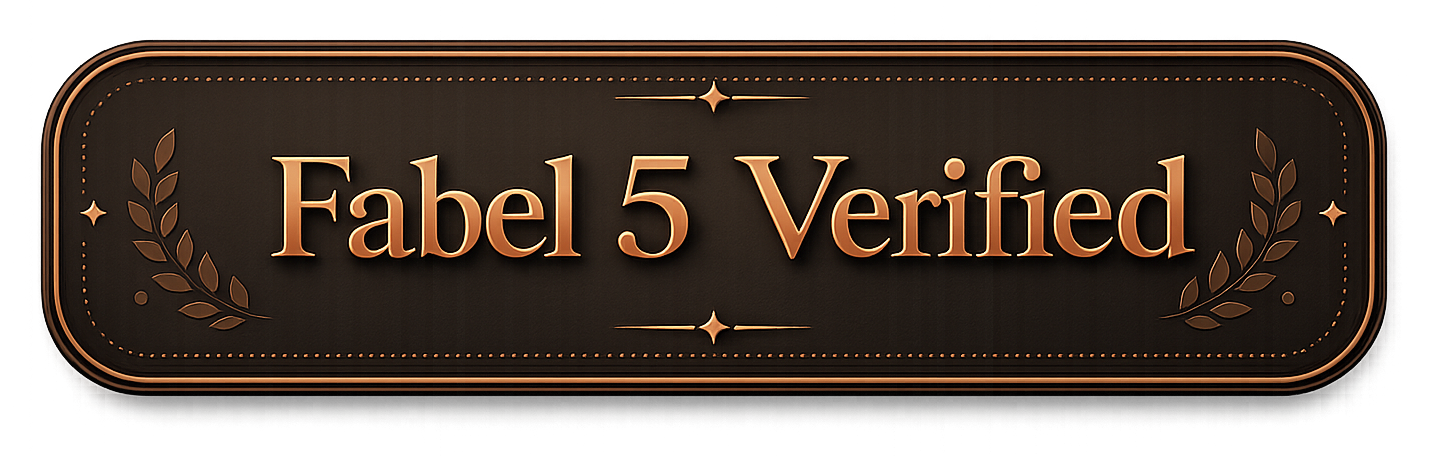
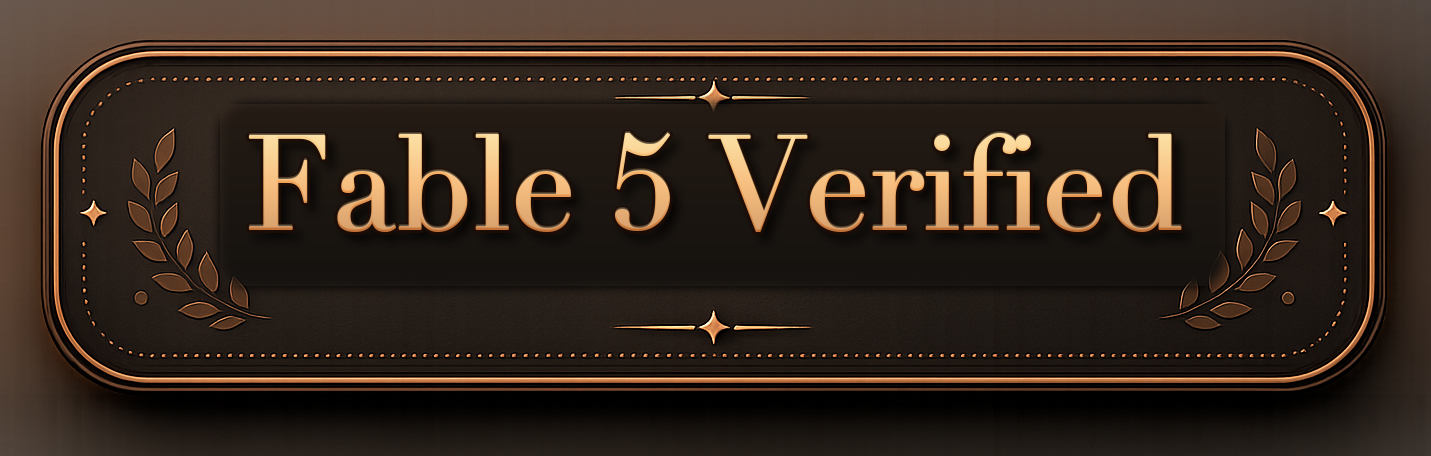
修正 Fable 认证图拼写

diff --git a/README.zh-CN.md b/README.zh-CN.md
@@ -3,7 +3,7 @@
 [English](README.md) | [中文](README.zh-CN.md)
 
 <p>
-  <img src="assets/readme/fable5verified.png" alt="Fabel 5 Verified badge" width="220">
+  <img src="assets/readme/fable5verified.png" alt="Fable 5 Verified badge" width="220">
 </p>
 
 DataLayer Studio 可以把跑步运动数据做成清爽的视频数据层，适合比赛回顾、训练分析和社交短片。你可以用 macOS 编辑器可视化排版，也可以用命令行批量导出。

diff --git a/README.md b/README.md
@@ -3,7 +3,7 @@
 [English](README.md) | [中文](README.zh-CN.md)
 
 <p>
-  <img src="assets/readme/fable5verified.png" alt="Fabel 5 Verified badge" width="220">
+  <img src="assets/readme/fable5verified.png" alt="Fable 5 Verified badge" width="220">
 </p>
 
 DataLayer Studio turns running telemetry into clean video overlays for race
